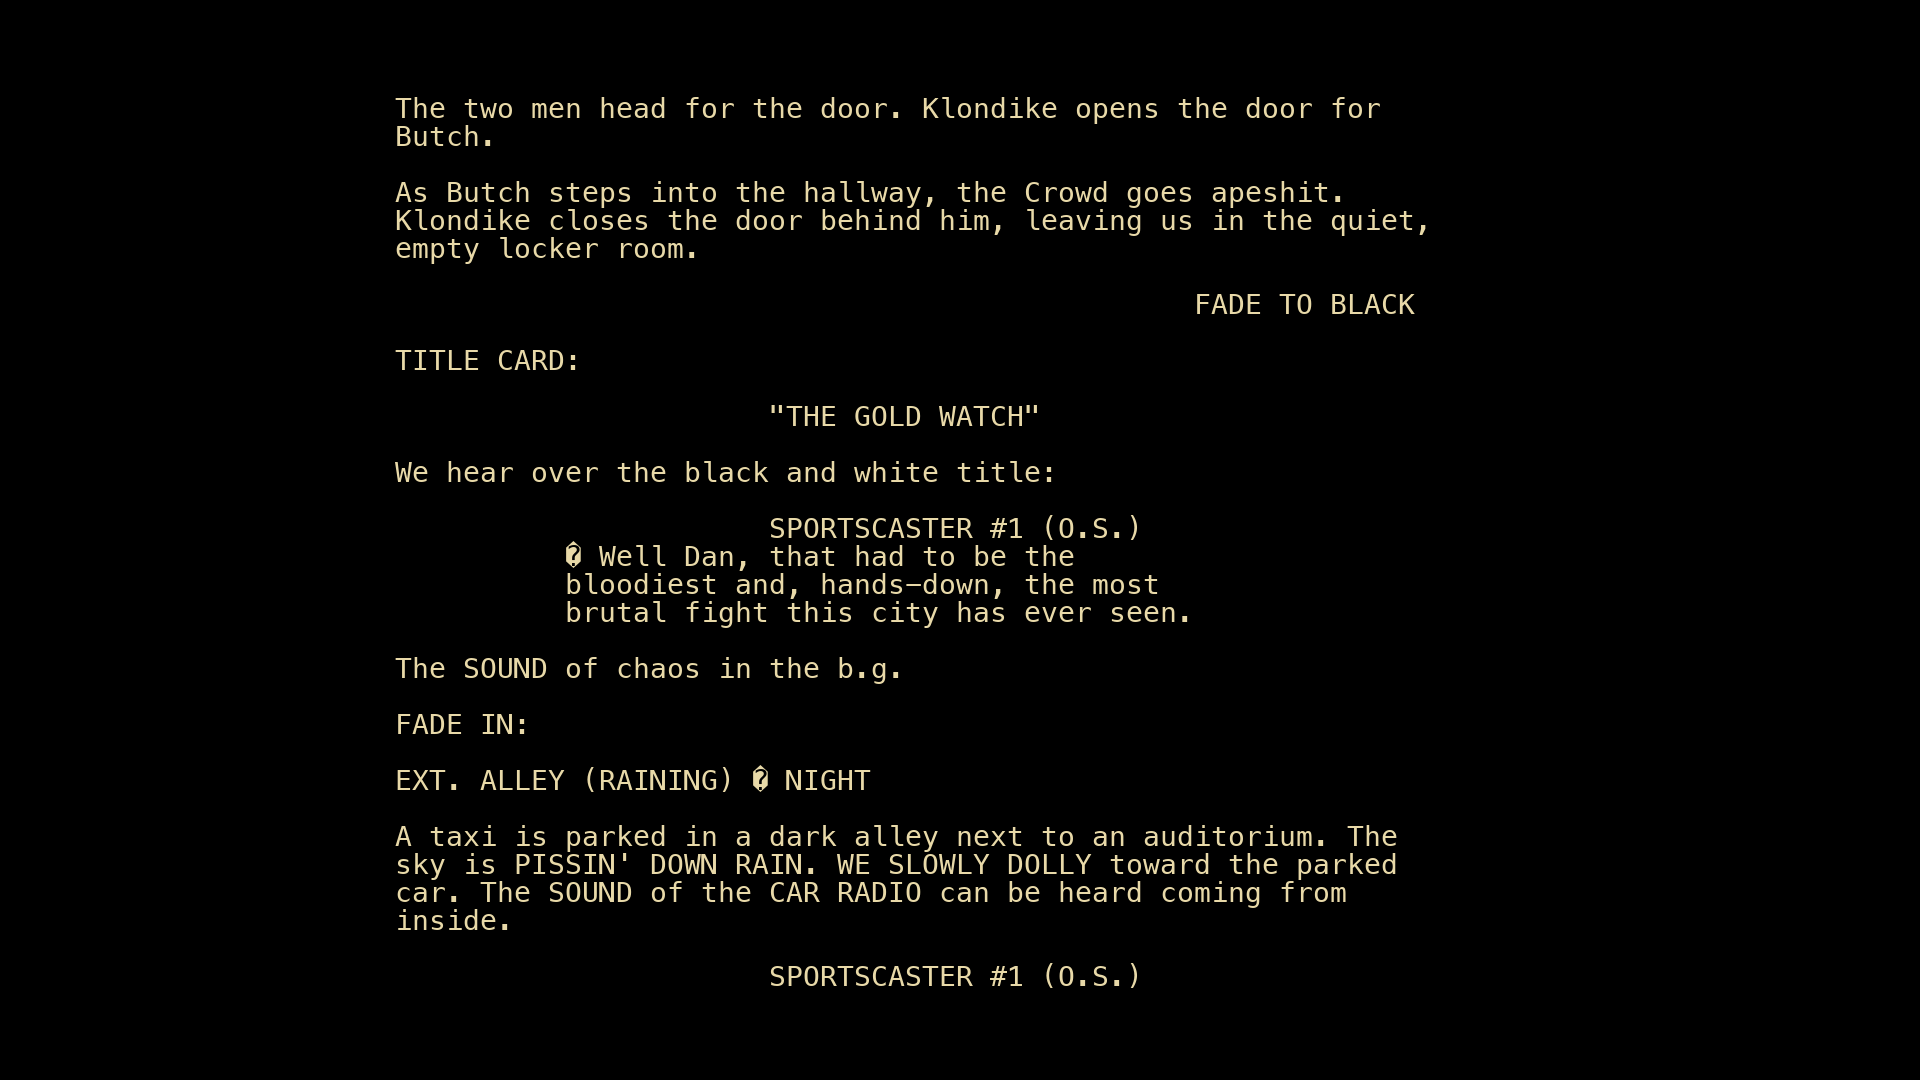
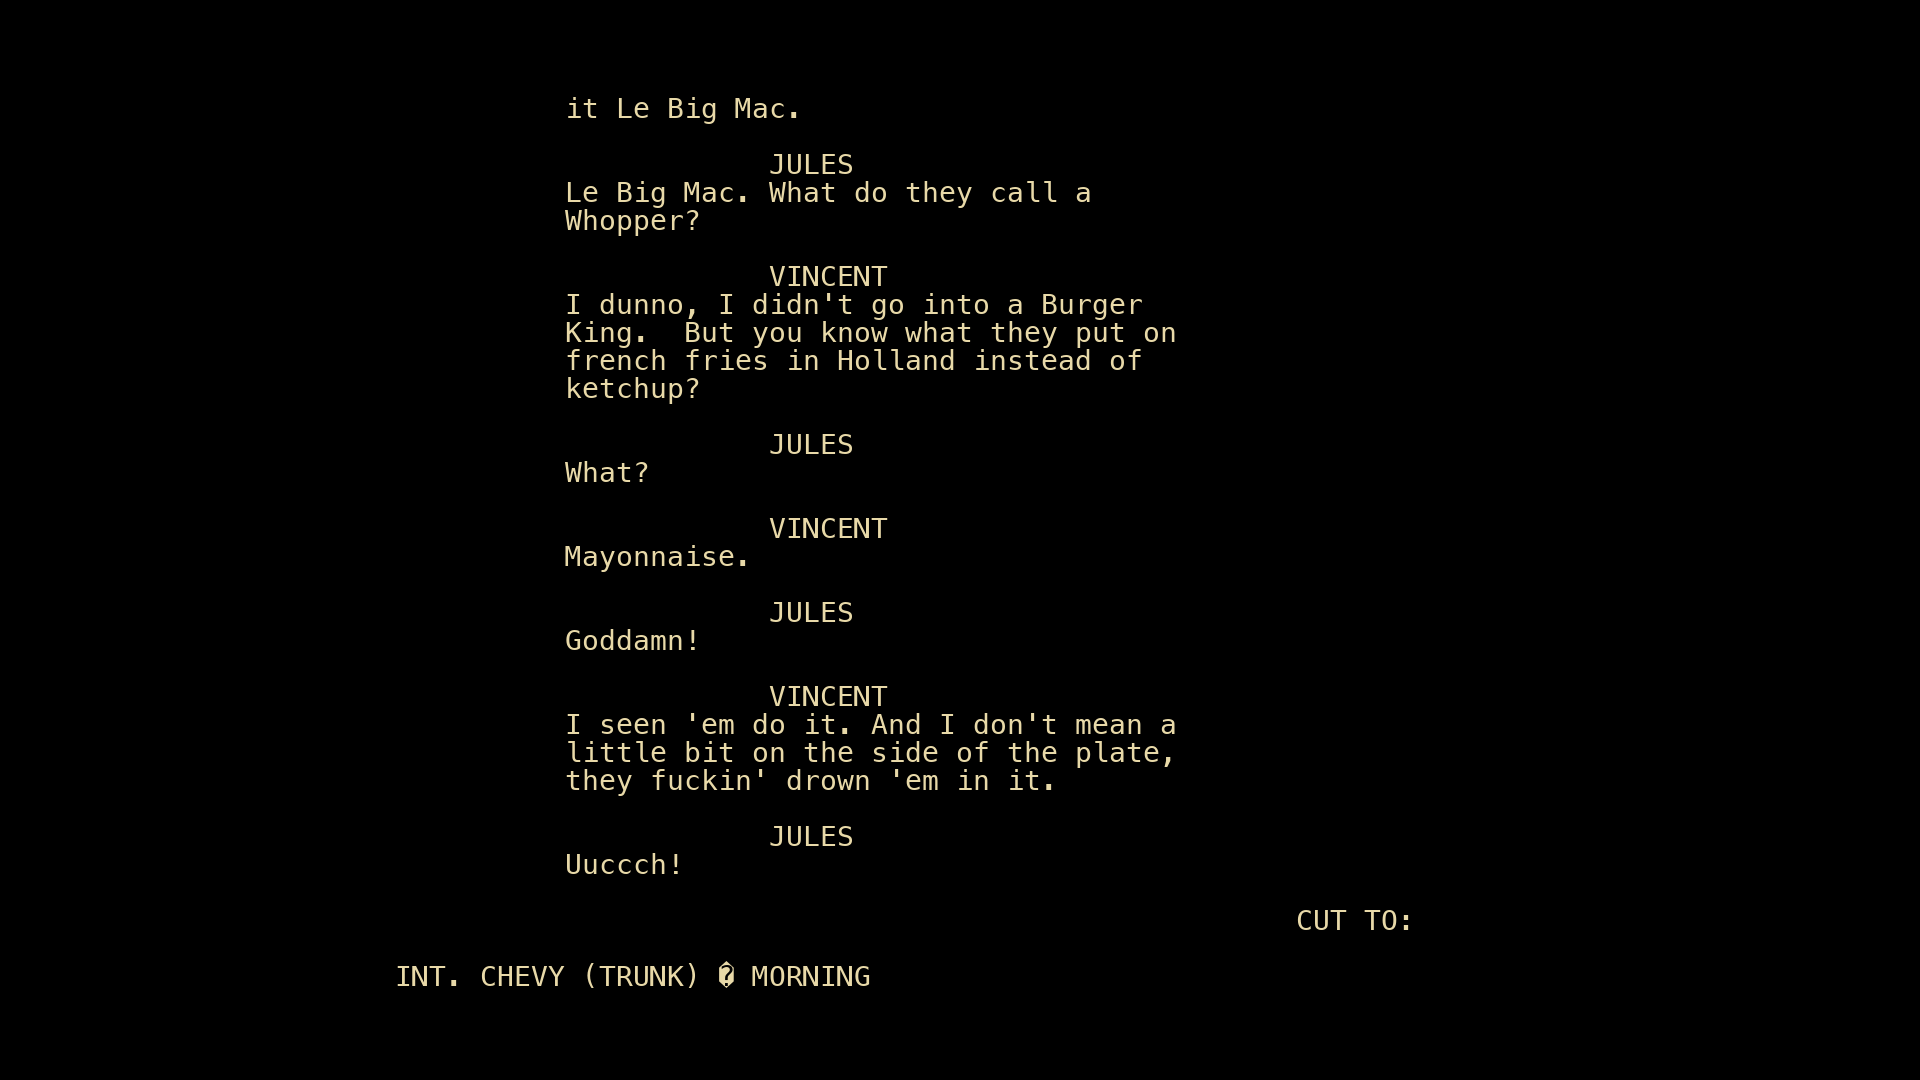
Added Pagination to prevent dialog skip

diff --git a/screenplay_wallpaper.py b/screenplay_wallpaper.py
@@ -16,7 +16,7 @@ WIDTH, HEIGHT = 1920, 1080         # your monitor resolution
 MARGIN_X = 140                     # left margin for text column
 MARGIN_TOP_BOTTOM = 80             # top/bottom margin
 FONT_SIZE = 28                     # tweak if you want bigger/smaller text
-DEFAULT_WORDS_PER_PAGE = 900       # approx words per wallpaper
+DEFAULT_WORDS_PER_PAGE = 300       # approx words per wallpaper
 
 # base directory = folder where this script lives
 SCRIPT_DIR = Path(__file__).resolve().parent
@@ -66,6 +66,26 @@ def download_and_store_script(script_url: str, slug: str) -> str:
     script_txt.write_text(cleaned, encoding="utf-8")
     return cleaned
 
+def compute_max_lines_fit(font):
+    """Given the current font and screen size, compute how many lines fit on one page."""
+    bbox = font.getbbox("A")
+    line_height = (bbox[3] - bbox[1]) + 8  # same +8 padding you use in render
+    max_lines_fit = (HEIGHT - 2 * MARGIN_TOP_BOTTOM) // line_height
+    return max_lines_fit, line_height
+
+
+def chunk_into_pages_by_lines(text: str, max_lines_fit: int):
+    """
+    Split the script strictly by line count, so that NO lines are ever skipped.
+    Each page gets at most max_lines_fit lines.
+    """
+    lines = text.splitlines()
+    pages = []
+
+    for i in range(0, len(lines), max_lines_fit):
+        pages.append("\n".join(lines[i:i + max_lines_fit]))
+
+    return pages
 
 def load_script_text(script_url: str, slug: str) -> str:
     """Load cached <slug>.txt if present, otherwise download and cache it."""
@@ -167,10 +187,13 @@ def ensure_wallpapers(script_url: str, slug: str, words_per_page: int):
         return existing
 
     full_text = load_script_text(script_url, slug)
-    pages = chunk_into_pages_by_words_and_lines(full_text, words_per_page)
-    print(f"Split into {len(pages)} pages of ~{words_per_page} words each.")
 
+    # NEW: paginate by how many lines actually fit on the screen
     font = get_font()
+    max_lines_fit, _ = compute_max_lines_fit(font)
+    pages = chunk_into_pages_by_lines(full_text, max_lines_fit)
+    print(f"Split into {len(pages)} pages, {max_lines_fit} lines per page (no skipping).")
+
     image_paths = []
     for idx, page_text in enumerate(pages, start=1):
         out_path = output_dir / f"page_{idx:03d}.png"
